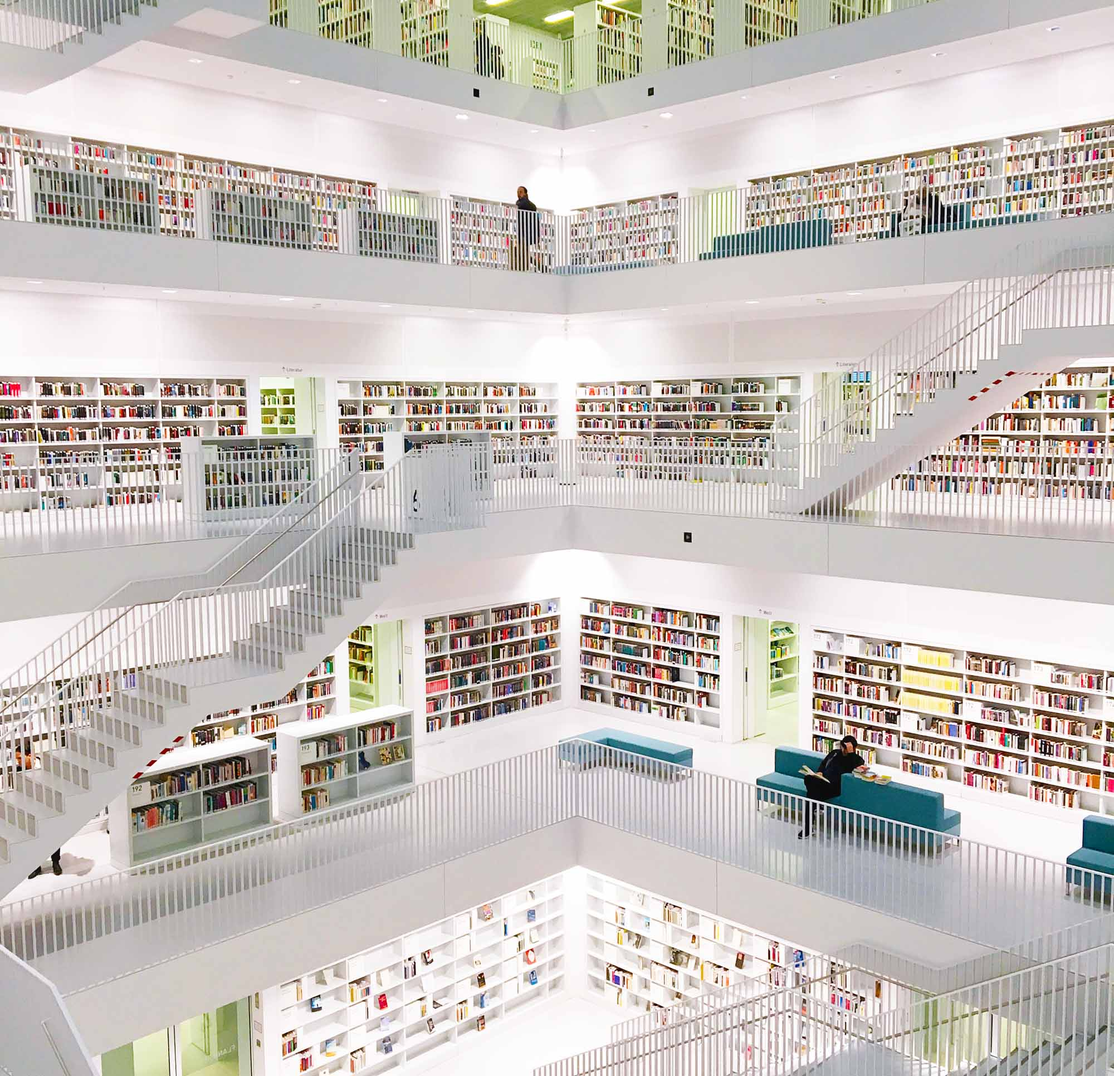
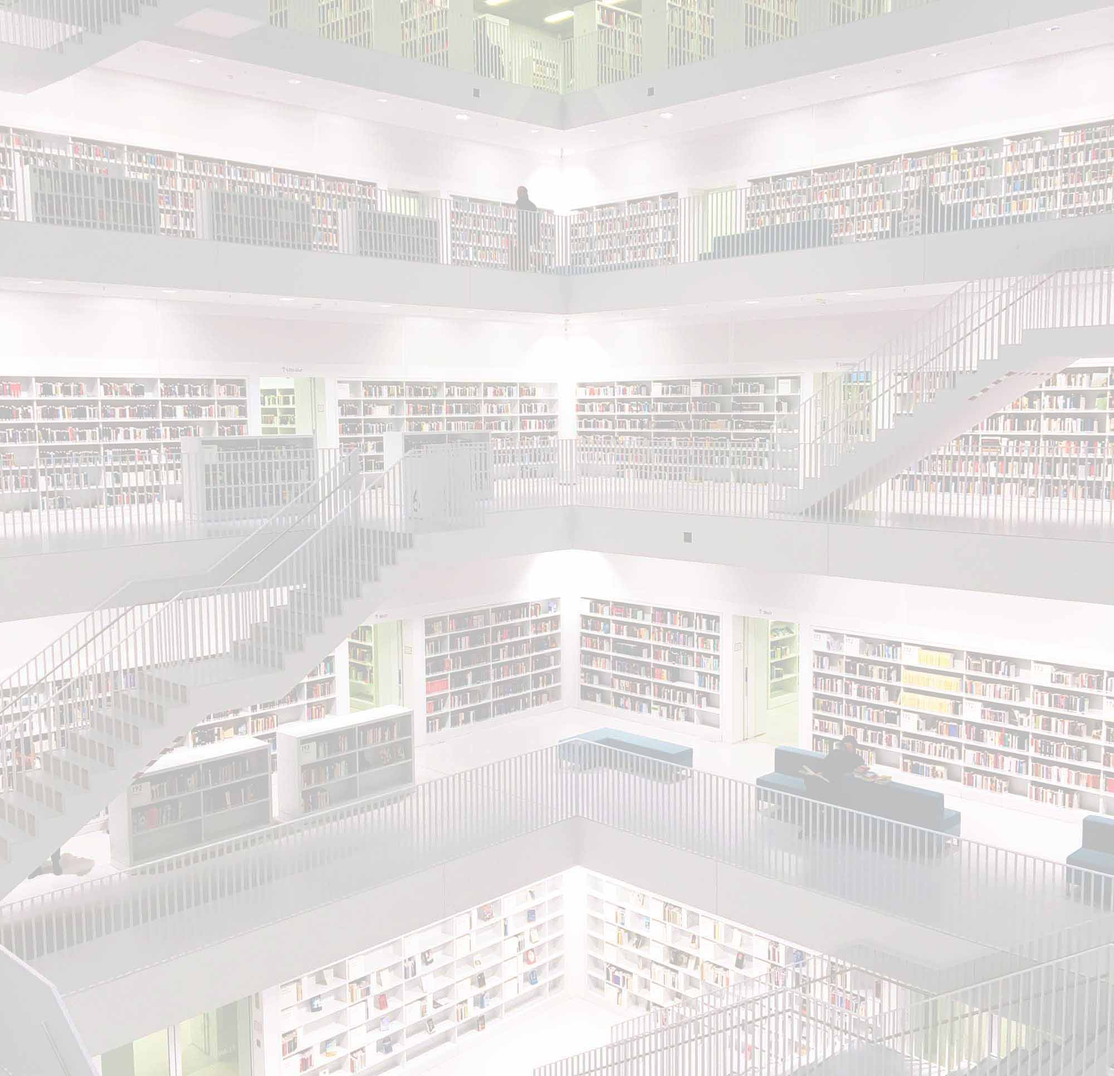
truncate strings that are too long.

diff --git a/src/views/Home.vue b/src/views/Home.vue
@@ -4,14 +4,16 @@
 
       <h2 class="hero">
           Find journals that meet your
-          open-access funder mandate.
+          open-access funder mandate:
       </h2>
 
       <div class="searchbar">
         <div class="inputs">
 
             <input-journal :initial-value="storeState.journal"></input-journal>
+            <div class="sep"></div>
             <input-institution></input-institution>
+            <div class="sep"></div>
             <input-funder></input-funder>
 
 
@@ -84,8 +86,8 @@
 <style lang="scss">
 
     .home {
-        background: url("../assets/books.jpg") no-repeat;
-        /*background: #fff;*/
+        /*background: url("../assets/books.jpg") no-repeat;*/
+        background: #fff;
         background-color: #fff;
         background-size: cover;
         background-position: 50% 50%;
@@ -96,22 +98,32 @@
         align-items: center;
         text-align: left;
         .content {
-            width: 1100px;
-            margin-top: 10vh;
-            padding: 40px 40px;
+            margin-top: 20vh;
             border-radius: 10px;
-            /*box-shadow: 0 12px 95px 25px rgba(0, 0, 0, .4);*/
             h2.hero {
                 font-size: 40px;
+                /*text-align: center;*/
                 line-height: 1.3;
                 margin-bottom: 0;
                 padding: 0 0 20px;
                 margin: 0;
+                color: #333;
+                /*background: #fff;*/
+                padding: 20px;
+                /*text-shadow: 5px 5px 25px rgba(0, 0, 0, 1);*/
+                z-index: 9;
+                position: relative;
+                border-radius: 10px 10px 0 0;
+                margin-bottom: 20px;
+                font-weight: 100;
             }
 
             .searchbar {
                 display: flex;
+                border-radius: 10px;
+                /*border: 2px solid #ddd;*/
 
+                box-shadow: 0 2px 10px 5px rgba(0, 0, 0, .1);
                 .inputs {
                     display:flex;
                     flex: 1;
@@ -119,17 +131,22 @@
 
                     .autosuggest-container {
                         border: 1px solid #ddd;
+                        border-top: none;
+                        border:none;
                         background: #fff;
                         /*border: none;*/
                         position: relative;
-                        padding: 15px 0;
+                        padding-top: 10px;
+                        width: 350px;
+
 
                         flex: 1;
                         &.input-journal {
-                            border-radius: 5px 0 0 5px;
+                            border-radius: 10px 0 0 10px;
+                            border-right: 1px solid #ddd;
                         }
                         &.input-funder {
-                            border-radius: 0 5px 5px 0;
+                            border-left: 1px solid #ddd;
                         }
 
                         &.has-focus {
@@ -137,17 +154,17 @@
                             /*box-shadow: 0px 0 2px 0 rgba(0, 0, 0, .4);*/
                             /*border-radius: 5px;*/
                             /*border-bottom: none;*/
-                            border: 1px solid #999;
-                            flex: 3;
+                            /*border: 1px solid #999;*/
+                            transition: all 0.5s;
                             h2 {
                                 color: dodgerblue;
                             }
                         }
 
                         h2 {
-                            font-size: 12px;
+                            font-size: 14px;
                             text-transform: uppercase;
-                            margin: 10px 15px 5px;
+                            margin: 10px 15px 0px;
                             i {
                                 display: none;
                             }
@@ -157,14 +174,13 @@
                             outline: none;
                             /*position: relative;*/
                             /*display: block;*/
-                            width: 80%;
+                            width: 100%;
                             border: none;
                             /*border-bottom: 1px solid #ccc;*/
-                            font-size: 20px;
+                            font-size: 22px;
                             /*padding: 0 0 15px 15px;*/
                             /*margin: 15px;*/
                             padding: 0 15px;
-                            margin-bottom: 15px;
                             box-sizing: border-box;
                             -webkit-box-sizing: border-box;
                             -moz-box-sizing: border-box;
@@ -176,15 +192,15 @@
                         }
                         .autosuggest__results {
                             position: absolute;
-                            border: 1px solid #999;
-                            border-top: 1px solid #ddd;
-                            width: 500px;
-                            background: #fff;
+                            border: 1px solid #ddd;
+                            border-top: none;
+                            width: 352px;
                             margin-left: -1px;
+                            margin-top: 24px;
                             z-index: 999;
-                            background: #fafafa;
+                            background: #fff;
                             border-radius: 0 0 5px 5px;
-                            box-shadow: 0px 2px 2px 0 rgba(0, 0, 0, .4);
+                            box-shadow: 0px 6px 6px 0px rgba(0, 0, 0, .1);
 
 
 
@@ -221,10 +237,9 @@
                     display: flex;
                     align-items: center;
                     justify-content: center;
-                    border-radius: 10px;
-                    height: 80px;
+                    border-radius: 0 10 10px 0;
+                    height: 90px;
                     color: #fff;
-                    margin-left: 10px;
                     font-size: 36px;
                     text-transform: uppercase;
                     font-weight: bold;

diff --git a/src/components/InputJournal.vue b/src/components/InputJournal.vue
@@ -25,6 +25,7 @@
 
 <script>
     import axios from 'axios'
+    import _ from "lodash"
     import {VueAutosuggest} from "vue-autosuggest";
     import {store} from './store.js'
 
@@ -48,7 +49,7 @@
                 inputProps: {
                     id: "journal-input",
                     onInputChange: this.fetchResults,
-                    placeholder: "eg: Nature, information science",
+                    placeholder: "eg: Nature, astronomy",
                     class: "form-control"
                 },
                 suggestions: [],
@@ -100,7 +101,7 @@
             },
             getSuggestionValue(suggestion) {
                 let {name, item} = suggestion;
-                return item.name
+                return _.truncate(item.name, {length: 30})
             }
         },
         watch: {

diff --git a/src/components/InputFunder.vue b/src/components/InputFunder.vue
@@ -42,7 +42,7 @@
                 inputProps: {
                     id: "funder-input",
                     onInputChange: this.fetchResults,
-                    placeholder: "eg: US National Science Foundation",
+                    placeholder: "eg: Wellcome Trust",
                     class: "form-control"
                 },
                 suggestions: [],
@@ -74,7 +74,7 @@
             },
             getSuggestionValue(suggestion) {
                 let {name, item} = suggestion;
-                return item.name
+                return _.truncate(item.name, {length: 30})
             }
         },
         watch: {

diff --git a/src/components/InputInstitution.vue b/src/components/InputInstitution.vue
@@ -41,7 +41,7 @@
                 inputProps: {
                     id: "institution-input",
                     onInputChange: this.fetchResults,
-                    placeholder: "eg: University of Florida",
+                    placeholder: "eg: Cambridge",
                     class: "form-control",
                 },
                 suggestions: [],
@@ -73,7 +73,7 @@
             },
             getSuggestionValue(suggestion) {
                 let {name, item} = suggestion;
-                return item.name
+                return _.truncate(item.name, {length: 30})
             }
         },
         watch: {
